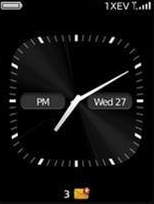
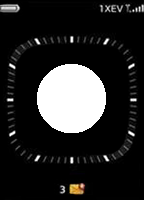
clock and inner-case updated(outer screen completed)

diff --git a/blackberry 9760/blackberry.html b/blackberry 9760/blackberry.html
@@ -65,20 +65,6 @@
     .screens {
         display: flex;
     }
-    
-    .inner-screen {
-        width: 50%;
-        height: 100%;
-        border: 1px solid black;
-        display: flex;
-        justify-content: center;
-    }
-    
-    .inner-screen-case {
-        border: 3px solid black;
-        height: 400px;
-        width: 250px;
-    }
     /*outer screen styling*/
     
     .outer-screen {
@@ -92,6 +78,7 @@
     }
     
     .outer-screen-case-contn {
+        z-index: -6;
         border: 1px solid rgba(34, 34, 34, 0.671);
         border-bottom: 0px solid rgba(173, 173, 173, 0.11);
         height: 420px;
@@ -115,6 +102,7 @@
         padding-top: 50px;
         padding-right: 3px;
         padding-left: 0px;
+        z-index: -5;
         padding-bottom: 15px;
         border-top-right-radius: 60px;
         border-top-left-radius: 60px;
@@ -139,6 +127,7 @@
     }
     
     .outer-screen-inner-case {
+        z-index: -4;
         border-bottom: 1px solid rgba(0, 0, 0, 0.041);
         height: 330px;
         width: 253px;
@@ -147,30 +136,136 @@
         border-top-right-radius: 27px;
         border-bottom-left-radius: 70px;
         border-bottom-right-radius: 70px;
-        background: rgba(255, 0, 0, 0);
+        background: rgba(12, 12, 12, 0.39);
         background-image: linear-gradient(to right, rgba(0, 0, 0, 0.486), rgb(10, 10, 10), rgb(10, 10, 10), rgb(10, 10, 10), rgb(10, 10, 10), rgba(0, 0, 0, 0.418));
     }
     
     .outer-screen-inner-2-case {
-        margin-top: 30px;
+        margin-top: 10px;
         display: flex;
         justify-content: center;
         background: rgba(255, 255, 255, 0);
+        z-index: -3;
     }
     
     .outer-screen-inner-2 {
         height: 205px;
         width: 150px;
-        background: rgba(255, 255, 255, 0);
+        background-size: cover;
+        position: relative;
+        z-index: 5;
+    }
+    
+    .outer-screen-inner-2 img {
+        z-index: ;
     }
     
     .sensor {
         border: 1px solid transparent;
-        height: 8px;
-        width: 3px;
+        height: 1px;
+        width: 1px;
         border-radius: 6px;
         margin-right: -145px;
-        background: rgb(40, 40, 40);
+        background: blue;
+        animation: blink 5s infinite;
+    }
+    
+    .inner-sensor {
+        border: 1px solid transparent;
+        height: 6px;
+        width: 2px;
+        border-radius: 6px;
+        background: red;
+    }
+    
+    @keyframes blink {
+        0% {
+            z-index: -10;
+        }
+    }
+    
+    iframe {
+        position: absolute;
+        left: 13%;
+        top: 23%;
+        z-index: -1;
+        border: 1px solid white;
+    }
+</style>
+<style>
+    /*inner screen styling*/
+    
+    .inner-screen {
+        width: 50%;
+        height: 100%;
+        display: flex;
+        justify-content: center;
+    }
+    
+    .inner-screen-case {
+        height: 100%;
+        width: 250px;
+        border: 1px solid green;
+    }
+    
+    .upper-part {
+        border: 1px solid red;
+        height: 420px;
+        width: 248px;
+        display: flex;
+        justify-content: center;
+    }
+    
+    .upper-part-case {
+        border: 1px solid indigo;
+        height: 360px;
+        width: 237px;
+        margin-top: 50px;
+        display: flex;
+        justify-content: center;
+    }
+    
+    .upper-part-screen {
+        border: 1px solid black;
+        height: 260px;
+        width: 210px;
+        margin-top: 30px;
+    }
+    
+    .lower-part {
+        border: 1px solid blue;
+        height: 440px;
+        width: 248px;
+        display: flex;
+        justify-content: center;
+    }
+    
+    .lower-part-case {
+        border: 1px solid red;
+        height: 420px;
+        width: 240px;
+        margin-top: 10px;
+        margin-bottom: 10px;
+        display: flex;
+        justify-content: center;
+    }
+    
+    .lower-part-button {
+        border: 1px solid black;
+        height: 300px;
+        width: 230px;
+        margin-top: 80px;
+    }
+    
+    .grid-container {
+        display: grid;
+        grid-template-columns: auto auto auto auto auto;
+    }
+    
+    .btn {
+        border: 1px solid black;
+        height: 10px;
+        width: 10px;
     }
 </style>
 
@@ -192,10 +287,13 @@
                             <div style="display: flex;justify-content: center;">
                                 <div class="sensor"></div>
                             </div>
-                            BLACKBERRY
+                            <div>
+                                <img src="logo.png" width="110px" alt="">
+                            </div>
                             <div class="outer-screen-inner-2-case">
                                 <div class="outer-screen-inner-2">
-                                    <img src="wallpaper.PNG" alt="wallpaper" width="100%">
+                                    <img src="wallpaper.PNG" width="100%" alt="">
+                                    <iframe src="http://free.timeanddate.com/clock/i7fmq6hj/n125/szw110/szh110/hbw0/hfc000/cf100/hgr0/fav0/fiv0/mqc05050500/mqw4/mqd98/mhc05050500/mhl15/mhw6/mhd94/hwm1/hhcbbb/hmcddd/hsceee" frameborder="0" width="110" height="110"></iframe>
                                 </div>
                             </div>
                         </div>
@@ -206,7 +304,25 @@
 
         <div class="inner-screen">
             <div class="inner-screen-case">
+                <div class="upper-part">
+                    <div class="upper-part-case">
+                        <div class="upper-part-screen"></div>
+                    </div>
+                </div>
+                <div class="lower-part">
+                    <div class="lower-part-case">
+                        <div class="lower-part-button">
+                            <div class="grid-container">
+                                <div class="btn"></div>
+                                <div class="btn"></div>
+                                <div class="btn"></div>
+                                <div class="btn"></div>
+                                <div class="btn"></div>
 
+                            </div>
+                        </div>
+                    </div>
+                </div>
             </div>
         </div>
     </div>

diff --git a/nokia 1280/nokia.html b/nokia 1280/nokia.html
@@ -21,7 +21,7 @@
     @import url('https://fonts.googleapis.com/css2?family=Fira+Sans:wght@600&family=Lato:ital,wght@0,400;0,700;1,400;1,700&family=Lora:ital,wght@0,400;0,700;1,400;1,700&display=swap');
     @media only screen and (min-width: 700px) {
         body {
-            padding-top: 15%;
+            padding-top: 5%;
         }
     }
     
@@ -119,11 +119,44 @@
         }
     }
     
+    @-webkit-keyframes fade {
+        0% {
+            opacity: 0.5;
+        }
+        50% {
+            opacity: 1;
+        }
+        60% {
+            opacity: 0;
+        }
+        70% {
+            opacity: 0;
+        }
+        100% {
+            opacity: 0;
+        }
+    }
+    
     #Start {
         animation: fade-in 5s;
     }
     
     @keyframes fade-in {
+        0% {
+            opacity: 0;
+        }
+        50% {
+            opacity: 0.1;
+        }
+        70% {
+            opacity: 0.5;
+        }
+        100% {
+            opacity: 1;
+        }
+    }
+    
+    @-webkit-keyframes fade-in {
         0% {
             opacity: 0;
         }
@@ -263,11 +296,29 @@
         }
     }
     
+    @-webkit-keyframes click {
+        0% {
+            transform: translateY(17px);
+        }
+    }
+    
     .power-on a {
         animation: expand .50s linear infinite;
     }
     
     @keyframes expand {
+        0% {
+            box-shadow: 0 0 10px rgba(8, 8, 8, 0.548);
+        }
+        50% {
+            box-shadow: 0 0 20px rgba(8, 8, 8, 0.678);
+        }
+        100% {
+            box-shadow: 0 0 30px rgba(8, 8, 8, 0.678);
+        }
+    }
+    
+    @-webkit-keyframes expand {
         0% {
             box-shadow: 0 0 10px rgba(8, 8, 8, 0.548);
         }

diff --git a/style.css b/style.css
@@ -51,6 +51,17 @@ p {
     }
 }
 
+@-webkit-keyframes slide-in {
+    from {
+        transform: translateX(-150%);
+        opacity: 0.2;
+    }
+    to {
+        transform: translateX(0%);
+        opacity: 1;
+    }
+}
+
 .box {
     background: white;
 }
@@ -93,6 +104,10 @@ p {
     border: 1px solid white;
     background: rgb(1, 207, 207);
     color: white;
+}
+
+.main-project-intro {
+    padding-bottom: 50px;
 }
 
 .active2 {
@@ -150,6 +165,24 @@ p {
 }
 
 @keyframes glow {
+    0% {
+        background: rgba(128, 128, 128, 0.733);
+    }
+    20% {
+        background: rgba(128, 128, 128, 0.904);
+    }
+    50% {
+        background: rgba(128, 128, 128, 0.733);
+    }
+    70% {
+        background: rgba(128, 128, 128, 0.904);
+    }
+    100% {
+        background: rgba(128, 128, 128, 0.733);
+    }
+}
+
+@-webkit-keyframes glow {
     0% {
         background: rgba(128, 128, 128, 0.733);
     }

diff --git a/index.html b/index.html
@@ -25,7 +25,7 @@
     </div>
     <div class="col-s-12 col-12 box owl-carousel owl-theme">
         <div class="col-s-12 col-12 item project-intro">
-            <div class="main-project-intro">
+            <div class="main-project-intro col-12 col-s-12">
                 <p>This project involves designing of phones (old mobile phones and smartphones) using just HTML, CSS and a bit of JavaScript to give the phones some functions like switching on and other things.</p>
                 <br><br>
                 <a class="active2" href="demos.html">DEMOS</a>

diff --git a/demos.html b/demos.html
@@ -63,6 +63,17 @@
         }
     }
     
+    @-webkit-keyframes slide-in {
+        from {
+            transform: translateX(-150%);
+            opacity: 0.2;
+        }
+        to {
+            transform: translateX(0%);
+            opacity: 1;
+        }
+    }
+    
     .box {
         background: white;
     }
